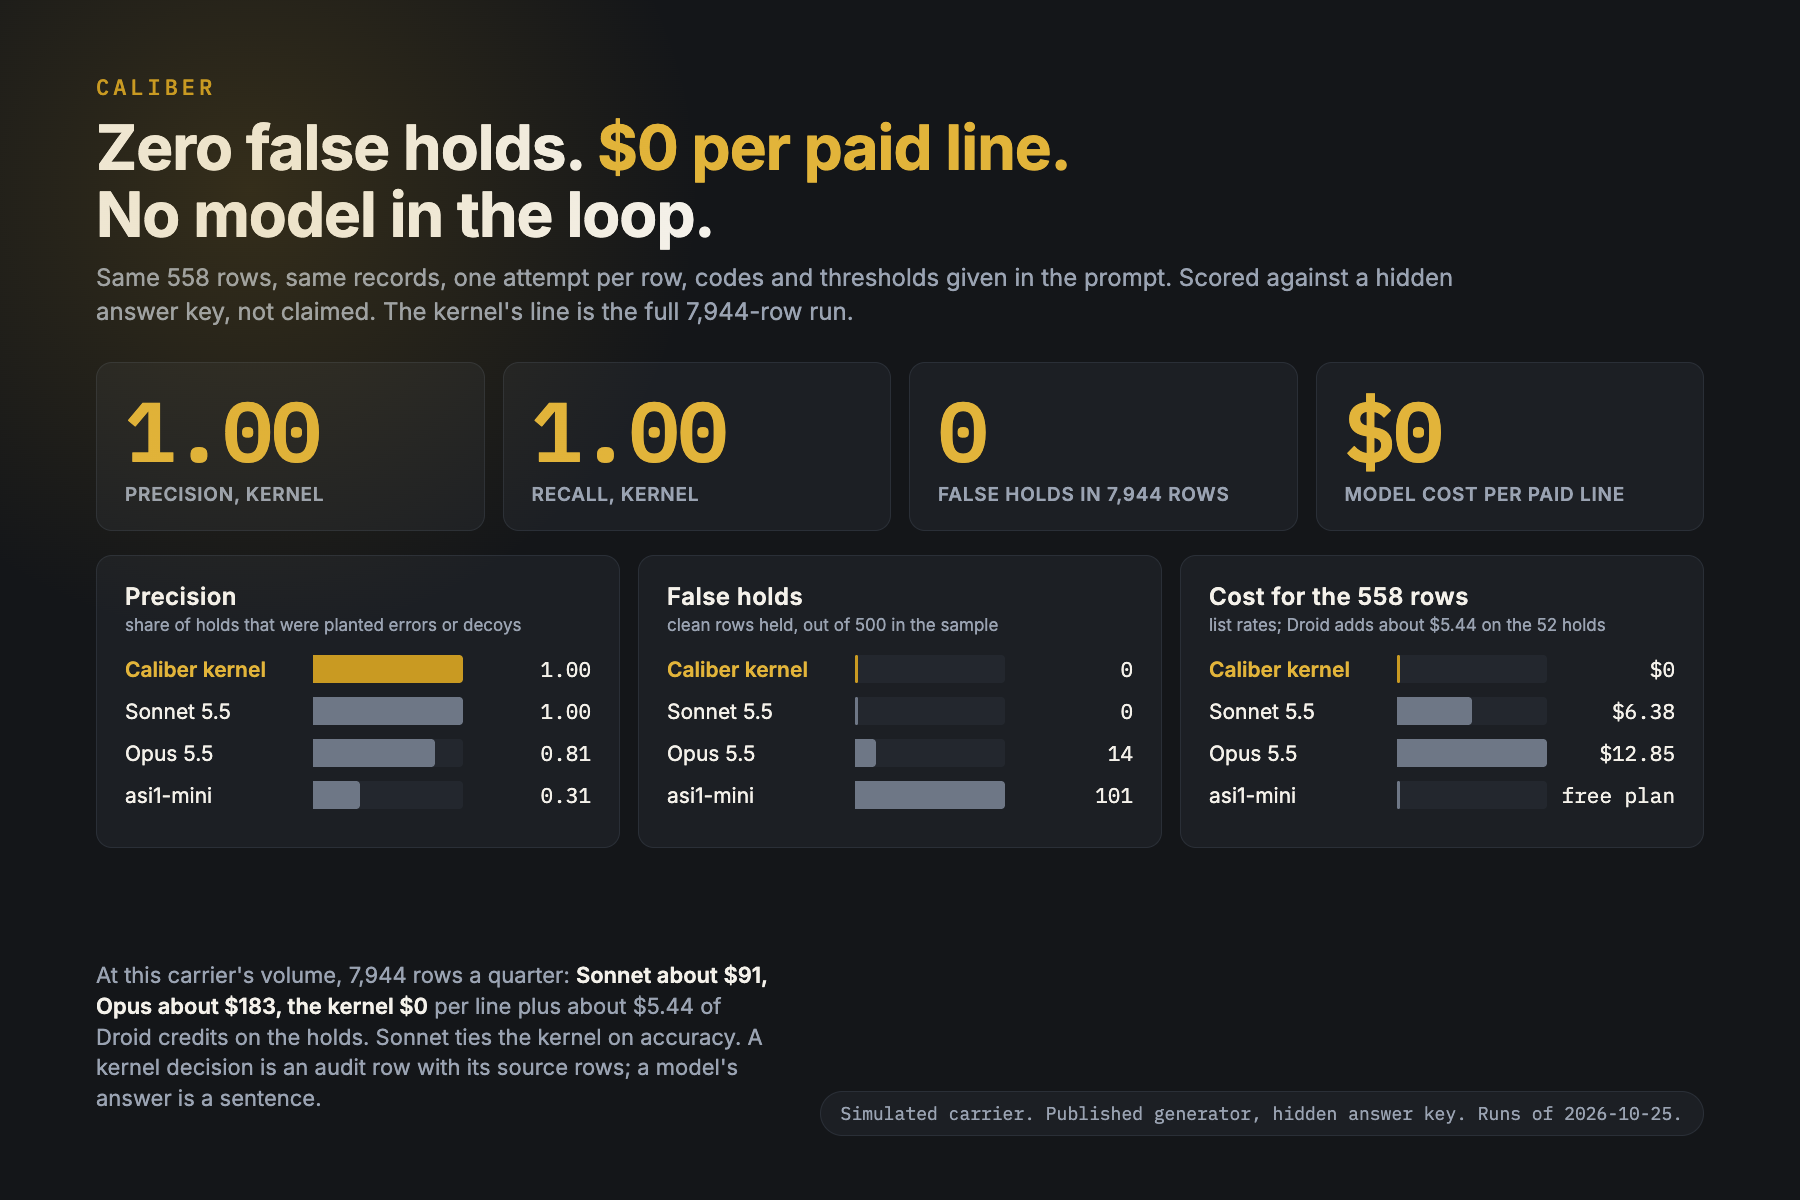
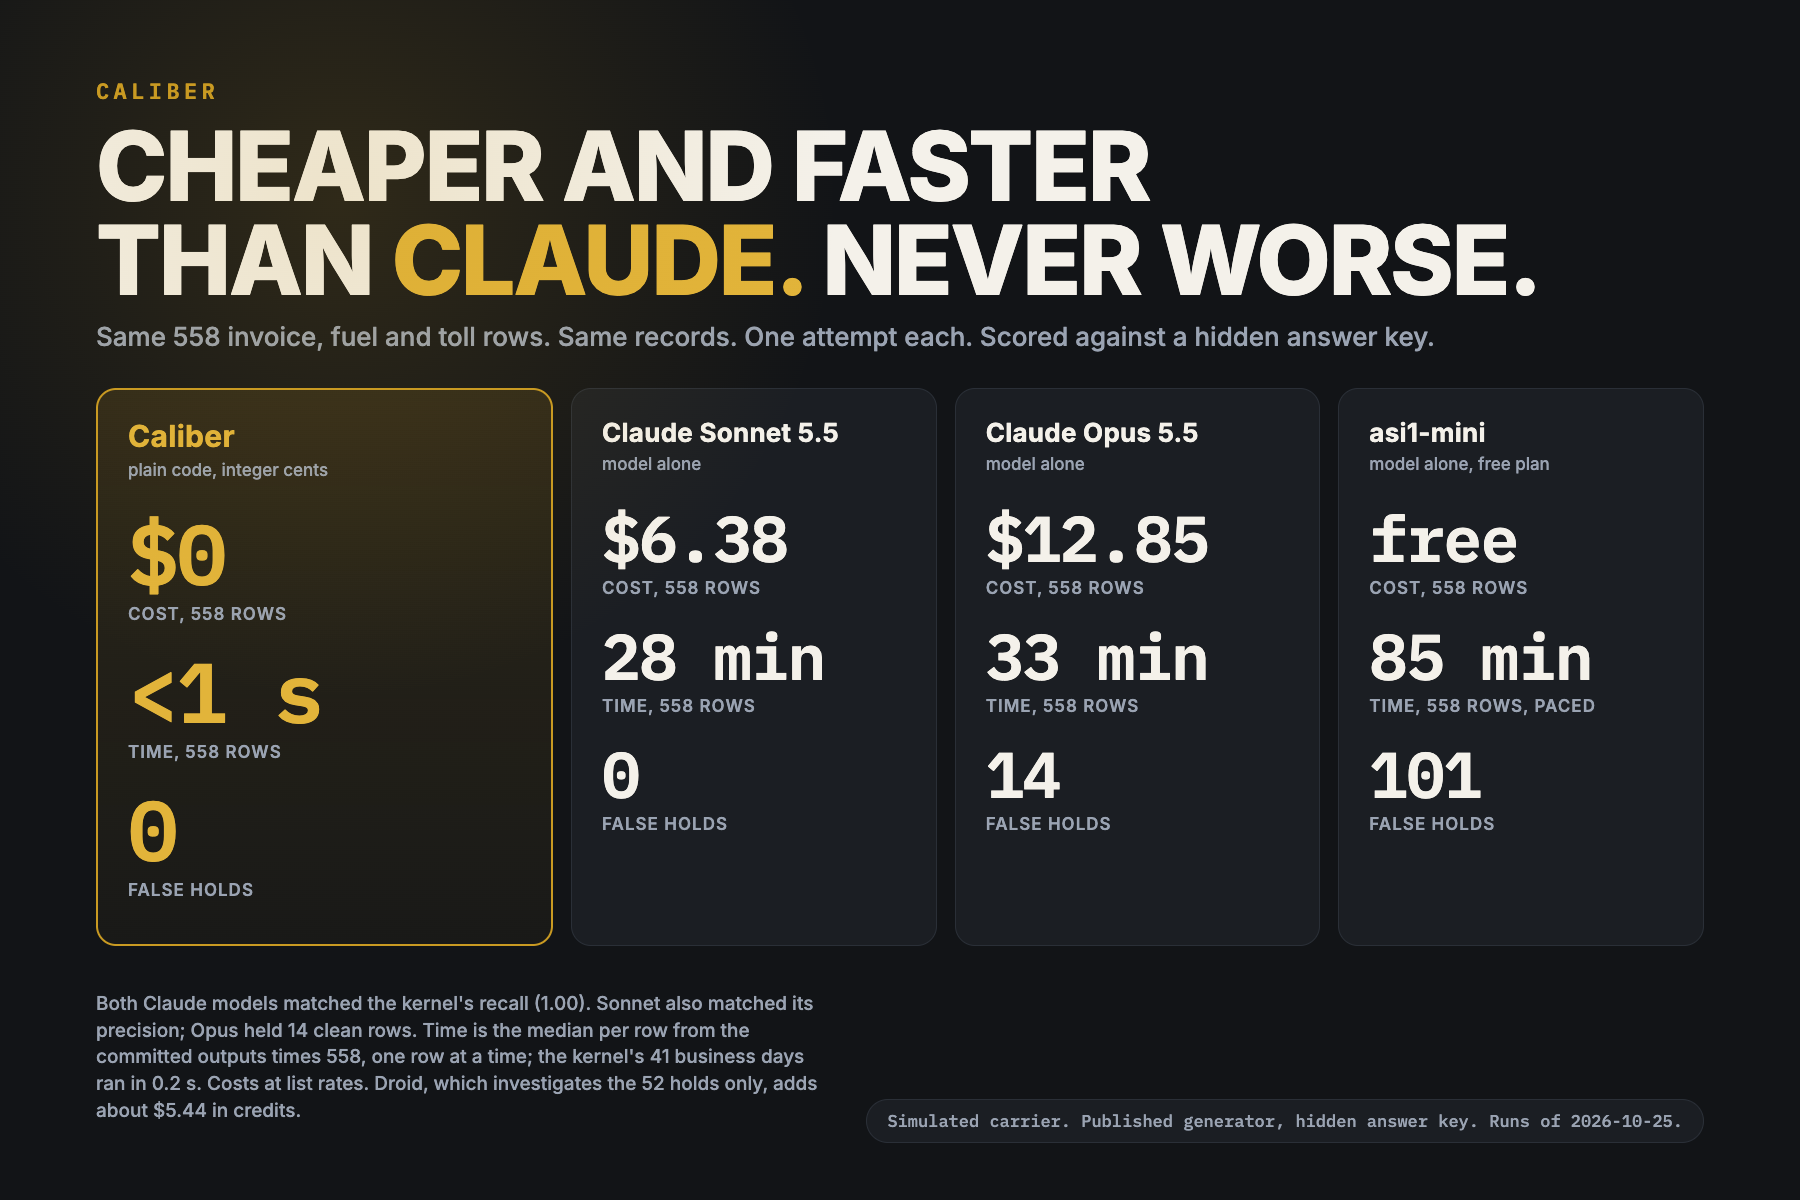
Gallery: benchmark hook image (cheaper and faster than Claude, never worse) with its caption

diff --git a/docs/images/captions.md b/docs/images/captions.md
@@ -24,6 +24,6 @@ Captured 2026-10-24 between 21:00 and 21:06 PDT in Anudeep's Chrome session, wit
 
 ## gallery-09-benchmark.png
 
-Benchmark at a glance, dark version: four hero tiles for the kernel (precision 1.00, recall 1.00, 0 false holds in 7,944 rows, $0 model cost per paid line) and three bar panels across the four systems on the same 558 rows: precision (Caliber 1.00, Sonnet 5.5 1.00, Opus 5.5 0.81, asi1-mini 0.31), false holds (0, 0, 14, 101) and cost at list rates ($0, $6.38, $12.85, free plan). The kernel's bar is brass, the models grey, every bar carries its value. The footer gives the per-quarter costs and says Sonnet ties the kernel on accuracy. Every figure is from bench/BASELINE.md (run of 2026-10-25T12:55:10Z) and docs/FACTS.md; Droid's credits (2,016,204, about $5.44 at Factory's rate) are in the cost panel's note. The chip names the simulated carrier and the run date.
+Benchmark hook: "Cheaper and faster than Claude. Never worse." Four columns of three numbers each, the same 558 rows (52 planted errors, 6 decoys, 500 clean rows), same records, one attempt per row, scored against the hidden answer key. Cost at list rates: Caliber $0, Claude Sonnet 5.5 $6.38, Claude Opus 5.5 $12.85, asi1-mini free plan. Time for the 558 rows: Caliber under 1 s (41 business days ran in 0.2 s), the models' median per row from the committed outputs times 558, one row at a time (Sonnet 3.0 s, Opus 3.5 s, asi1-mini 9.1 s paced to the free quota): 28, 33 and 85 minutes. False holds: 0, 0, 14, 101. The footer says both Claude models matched the kernel's recall and Sonnet matched its precision, so the claim is cost, speed and false holds, never accuracy over Sonnet; Droid's credits for the 52 holds (about $5.44) are stated. Every figure is from bench/BASELINE.md (run of 2026-10-25T12:55:10Z) and docs/FACTS.md. No OpenAI model was run, so none is shown. The chip names the simulated carrier and the run date.
 
-Rendered 2026-10-25 07:10 PDT by Playwright (Chromium, 1800 by 1200, device scale 1) from a static page; no live system in the picture.
+Rendered 2026-10-25 07:32 PDT by Playwright (Chromium, 1800 by 1200, device scale 1) from a static page; no live system in the picture.
